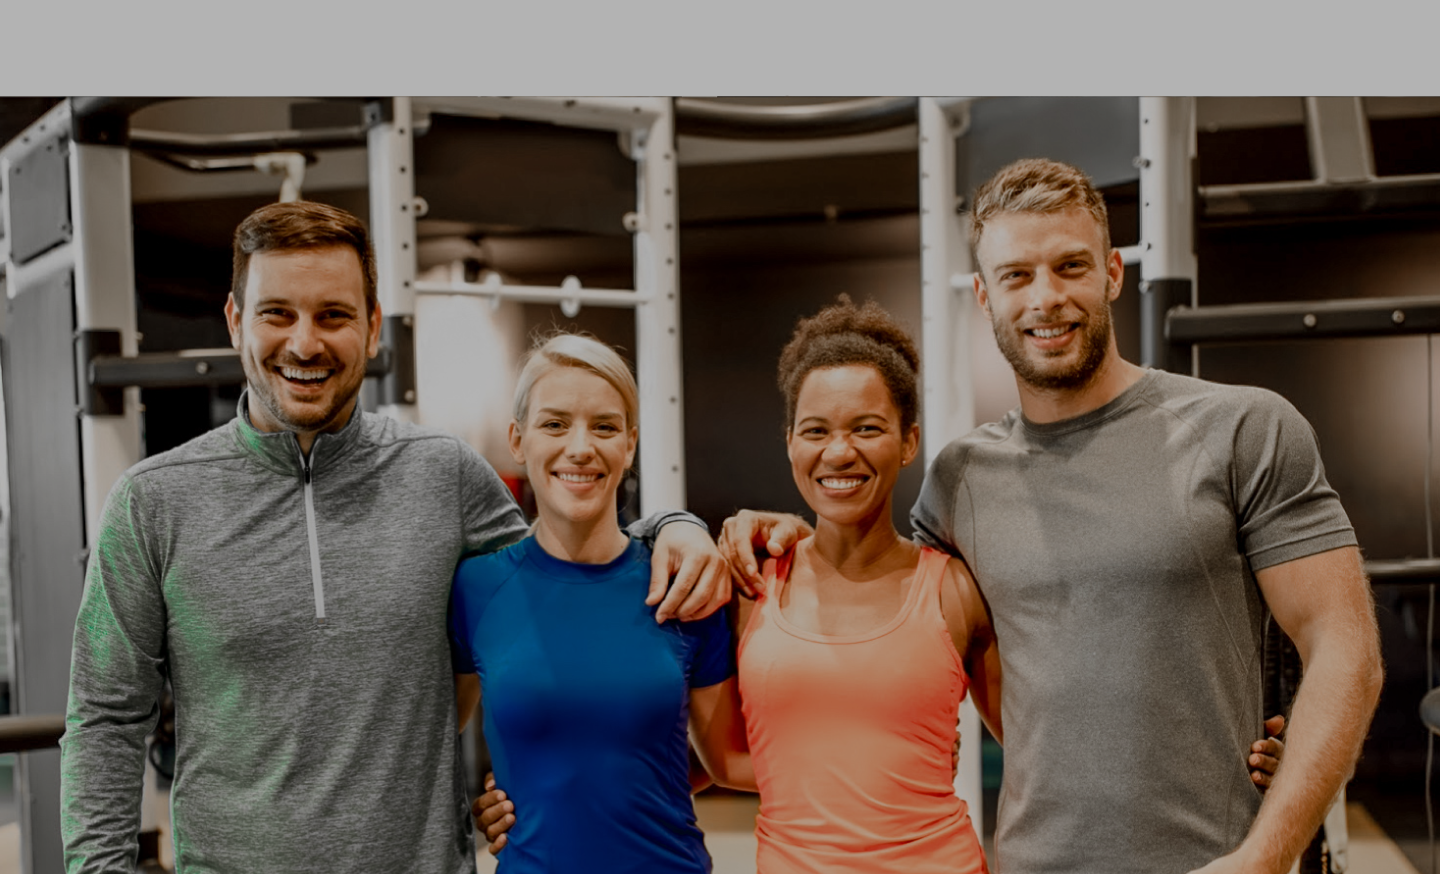
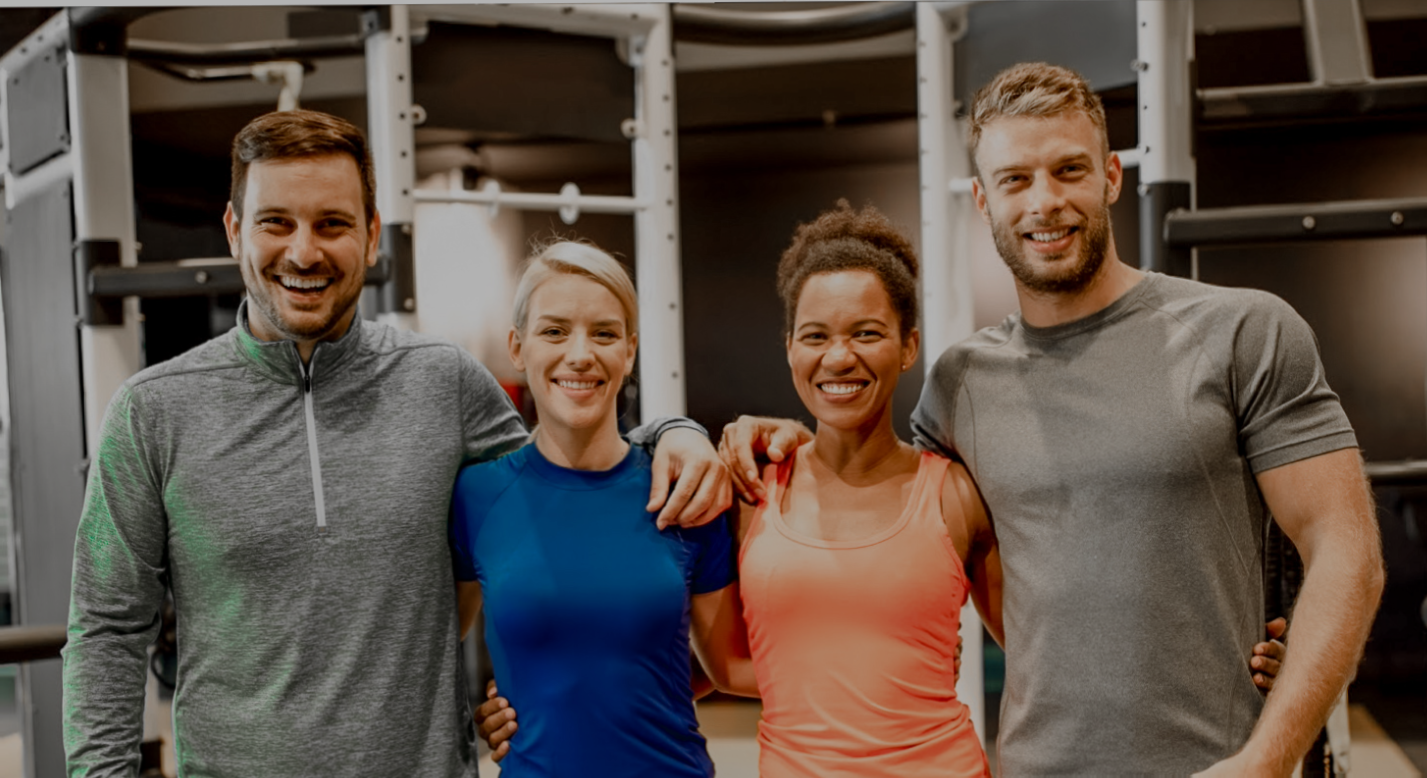
:hammer: Update index.html

diff --git a/src/index.html b/src/index.html
@@ -10,7 +10,7 @@
 <body>
 
     <!-- Header / En-tête -->
-    <header class="flex flex-col w-screen">
+    <header class="w-screenflex flex-col ">
         <!-- Top of header -> White part -->
         <div class="h-header w-full flex justify-center">
             <nav class="flex justify-around w-full place-items-center">
@@ -29,7 +29,7 @@
         </div>
 
         <!-- Bottom of header -> blue part -->
-        <div class="bg-blue-kleber bg-texture h-header text-white flex justify-center place-items-center">
+        <div class="w-full h-header bg-blue-kleber bg-texture text-white">
             <nav>
                 <ul class="flex gap-6">
                     <li><a href="">LE CABINET KINÉ KLÉBER</a></li>
@@ -42,16 +42,16 @@
     </header>
 
     <!-- First section -> title -->
-    <section>
+    <section class="w-full h-screen bg-cover bg-no-repeat bg-center text-white" style="background-image: url('img//kine-kleber-team.png');">
         <!-- Title and little description -->
-        <div class="bg-kleber-team">
+        <div>
             <h1>ÉQUIPE & FORMATION</h1>
             <p>Des spécialistes de haut niveau à votre service</p>
         </div>
 
         <!-- Circle text -->
         <div>
-
+            SCROLL POUR DÉCOUVRIR - SCROLL POUR DÉCOUVRIR - SCROLL POUR DÉCOUVRIR -
         </div>
     </section>
 

diff --git a/tailwind.config.js b/tailwind.config.js
@@ -5,19 +5,15 @@ module.exports = {
   ],
   darkMode: false, // or 'media' or 'class'
   theme: {
-    height: {
-      header: '67px',
-    },
     extend: {
-      colors: {
-        'blue-kleber': 'rgba(15, 49, 175, 0.9)',
-        'darkblue-kleber': '#0C288D',
-        'yellow-kleber': 'rgba(255, 214, 0, 0.9)',
-        'darkgray-kleber': '#383C43',
+      height: {
+        header: '67px',
       },
-      backgroundImage: {
-        'texture': "url('/img/texture.jfif')",
-        'kleber-team': "url('/img/kine-kleber-team.png')",
+      colors: {
+        'blue-kleber': 'rgba(15, 49, 175, 1)',
+        'darkblue-kleber': '#0C288D',
+        'yellow-kleber': 'rgba(255, 214, 0, 1)',
+        'darkgray-kleber': '#383C43',
       },
     },
   },

diff --git a/dist/styles/style.css b/dist/styles/style.css
@@ -478,8 +478,14 @@ video {
 .h-header{
 	height: 67px;
 }
-.w-screen{
-	width: 100vw;
+.h-screen{
+	height: 100vh;
+}
+.h-full{
+	height: 100%;
+}
+.h-1\/2{
+	height: 50%;
 }
 .w-full{
 	width: 100%;
@@ -500,13 +506,16 @@ video {
 	gap: 1.5rem;
 }
 .bg-blue-kleber{
-	background-color: rgba(15, 49, 175, 0.9);
+	background-color: rgba(15, 49, 175, 1);
 }
-.bg-texture{
-	background-image: url('/img/texture.jfif');
+.bg-cover{
+	background-size: cover;
 }
-.bg-kleber-team{
-	background-image: url('/img/kine-kleber-team.png');
+.bg-center{
+	background-position: center;
+}
+.bg-no-repeat{
+	background-repeat: no-repeat;
 }
 .text-white{
 	--tw-text-opacity: 1;
